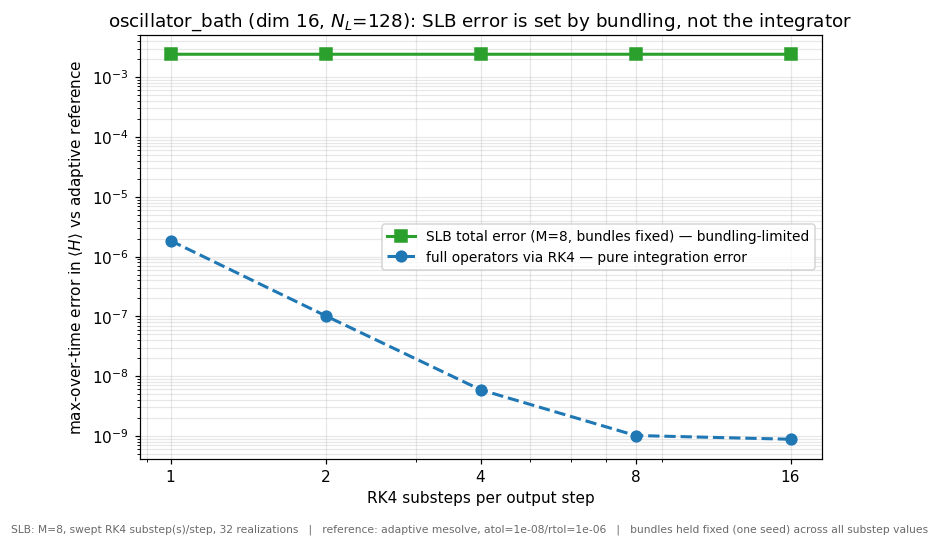
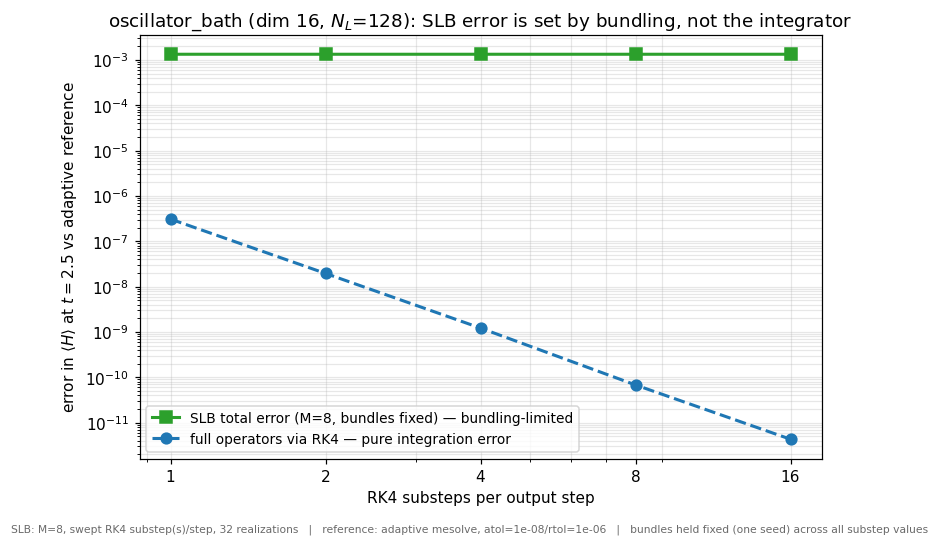
benchmarks: report substep-check error at t=2.5 (consistent metric); state total duration; note convergence-figure exception

diff --git a/benchmarks/benchmark_substep_convergence.py b/benchmarks/benchmark_substep_convergence.py
@@ -34,7 +34,7 @@ import qutip
 
 from benchmark_scaling import (
     gamma, build_spin_chain, build_oscillator_bath, TLIST,
-    format_slb_settings, add_settings_footer,
+    format_slb_settings, add_settings_footer, plot_time_index, ERR_PLOT_TIME,
 )
 from qutip_bundling import davies_operators, mesolve_ensemble
 from qutip_bundling.native_solver import rk4_mesolve
@@ -67,6 +67,7 @@ def run(name, build, size):
         qutip.mesolve(H, rho0, TLIST, c_ops=c_ops, e_ops=[H],
                       options={"atol": ATOL, "rtol": RTOL}).expect[0]
     )
+    idx = plot_time_index(TLIST)        # report error at the single mid-point t=2.5
 
     int_err, slb_err = [], []
     for s in SUBSTEPS:
@@ -74,14 +75,14 @@ def run(name, build, size):
         full = np.real(
             rk4_mesolve(H, rho0, TLIST, c_ops=c_ops, e_ops=[H], substeps=s).expect[0]
         )
-        int_err.append(float(np.max(np.abs(full - ref))))
+        int_err.append(float(abs(full[idx] - ref[idx])))
 
         # SLB total error: bundled, fixed M and fixed seed -> bundles identical
         # at every substep, so the only thing changing is the integration
         res = mesolve_ensemble(H, rho0, TLIST, c_ops, M=M, e_ops=[H],
                                n_realizations=N_REALIZATIONS, rng=SEED,
                                backend="native", substeps=s)
-        slb_err.append(float(np.max(np.abs(np.asarray(res.expect[0]) - ref))))
+        slb_err.append(float(abs(np.asarray(res.expect[0])[idx] - ref[idx])))
 
     print(f"[{name}] dim={dim}, N_L={n_l}")
     print(f"  substeps:        {SUBSTEPS}")
@@ -99,7 +100,7 @@ def figure(name, dim, n_l, int_err, slb_err):
     ax.loglog(SUBSTEPS, int_err, "o--", color="tab:blue", lw=2, ms=7,
               label="full operators via RK4 — pure integration error")
     ax.set_xlabel("RK4 substeps per output step")
-    ax.set_ylabel(r"max-over-time error in $\langle H\rangle$ vs adaptive reference")
+    ax.set_ylabel(r"error in $\langle H\rangle$ at $t=2.5$ vs adaptive reference")
     ax.set_title(f"{name} (dim {dim}, $N_L$={n_l}): "
                  "SLB error is set by bundling, not the integrator")
     ax.set_xticks(SUBSTEPS)

diff --git a/benchmarks/BENCHMARKS.md b/benchmarks/BENCHMARKS.md
@@ -141,8 +141,8 @@ $\dot\rho = -i[H_{\rm sys},\rho] + \sum_a \mathcal{D}[c_a]\rho$, with the
 dissipators $c_a$ generated from $(H_{\rm sys}, X, \gamma)$ as in §2.1. The
 Hilbert dimension is $2^n$. The energy eigenbasis mixes all sites, so nearly
 every level pair contributes a Davies operator and $N_L$ climbs steeply with
-size — 4 operators at $n=2$, ~62 at $n=4$ (dim 16), ~213 at $n=5$ (dim 32),
-~2200 at $n=7$ (dim 128). This rapid operator growth is SLB's natural home.
+size — 4 operators at $n=2$, $\sim 62$ at $n=4$ (dim 16), $\sim 213$ at $n=5$ (dim 32),
+$\sim 2200$ at $n=7$ (dim 128). This rapid operator growth is SLB's natural home.
 
 ### 2.4 System B — anharmonic oscillator coupled to a spin
 
@@ -185,7 +185,10 @@ The quantity of interest is how well the bundled $\langle H(t)\rangle$ (and, in
 Result 4, a coherence) tracks the exact reference. Rather than a single
 worst-case number, the error is reported **at fixed time points** — early, mid,
 and late relaxation ($t=1.0,\,2.5,\,4.0$) — and **each point carries a $\pm1$
-standard-deviation bar over the stochastic realizations.** This matters for two
+standard-deviation bar over the stochastic realizations.** (The dynamics run to
+$t=5$ in natural units — $J=1$ for the chain, $\omega_0=1$ for the oscillator —
+over 40 output points; the error-vs-X figures of Results 1 and 3, and the
+integrator check in Result 4, report the mid-point $t=2.5$.) This matters for two
 reasons:
 
 - It separates the **two error components**: the mean displacement of the
@@ -199,7 +202,11 @@ reasons:
 (An earlier version of these scripts reported the max-over-time error. That
 metric tells the same qualitative story — see §5, Result 1 — but it picks the
 single worst instant and obscures the bias/fluctuation split, so the
-fixed-time-point-with-std reporting replaces it.)
+fixed-time-point-with-std reporting replaces it. The one deliberate exception is
+the **convergence-rate figure** (Result 4): it keeps the max-over-time error on
+purpose, because it measures how fast the whole error envelope shrinks with $M$,
+where the worst-case over the trajectory is the robust diagnostic — insensitive
+to where any single instant happens to sit on the curve.)
 
 ### 3.2 How much sampling each method does (read this — it is the confusing part)
 
@@ -419,11 +426,15 @@ master equation more crudely than the adaptive reference. Holding the bundling
 fixed (one seed, so the bundles are identical) and sweeping only the RK4 substep
 count separates the two error sources: the *pure* integration error — the full,
 unbundled operators run through the same RK4 — falls quickly and bottoms out at
-the reference tolerance (~$10^{-10}$), while the *total* SLB error stays flat,
+the reference tolerance ($\sim 10^{-10}$), while the *total* SLB error stays flat,
 set by the bundling ($M$). At 4 substeps the integration error is orders of
-magnitude below the bundling error (~$10^{8}\times$ smaller for these systems),
+magnitude below the bundling error ($\sim 10^{8}\times$ smaller for these systems),
 so the substep choice cannot be where SLB's accuracy — or its speed — comes
 from; one could integrate far more crudely without moving the SLB error.
+
+The plotted error is the absolute deviation from the adaptive reference at the
+fixed mid-point $t=2.5$, $|\langle H\rangle(2.5) - \langle H\rangle_{\rm ref}(2.5)|$
+— the same single-time-point metric as the scaling and frontier figures (§3.1).
 
 ![spin chain substep convergence](benchmark_substep_convergence_spin_chain.png)
 ![oscillator substep convergence](benchmark_substep_convergence_oscillator_bath.png)